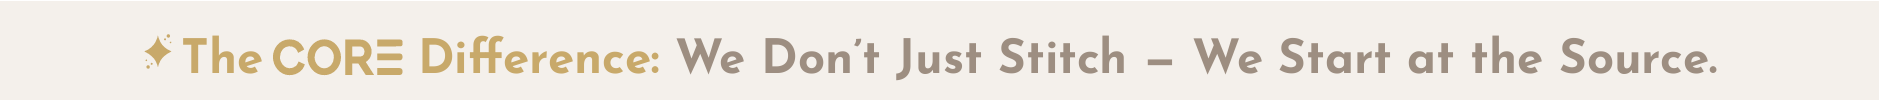
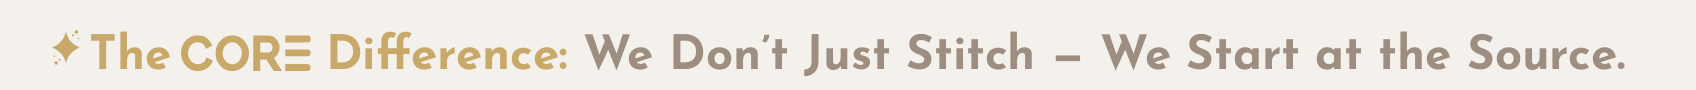
strength

Changed region(s): [[0.0312, 0.3333, 0.9688, 0.8444]]

diff --git a/css/style.css b/css/style.css
@@ -994,8 +994,8 @@ blockquote cite:before {
     color: var(--color-accent);
     text-transform: uppercase;
     position: relative;
-    letter-spacing: 3px;
-    margin-bottom: 5px;
+    letter-spacing: 2px;
+    margin-bottom: 15px;
 }
 
 .section-subtitle span {
@@ -8732,7 +8732,7 @@ input[type="submit"],
     .facilties .single-facility {
         padding: 10px;
         margin-bottom: 0px;
-        min-height: 200px;
+        min-height: 160px;
         display: flex;
         flex-direction: column;
         justify-content: center;
